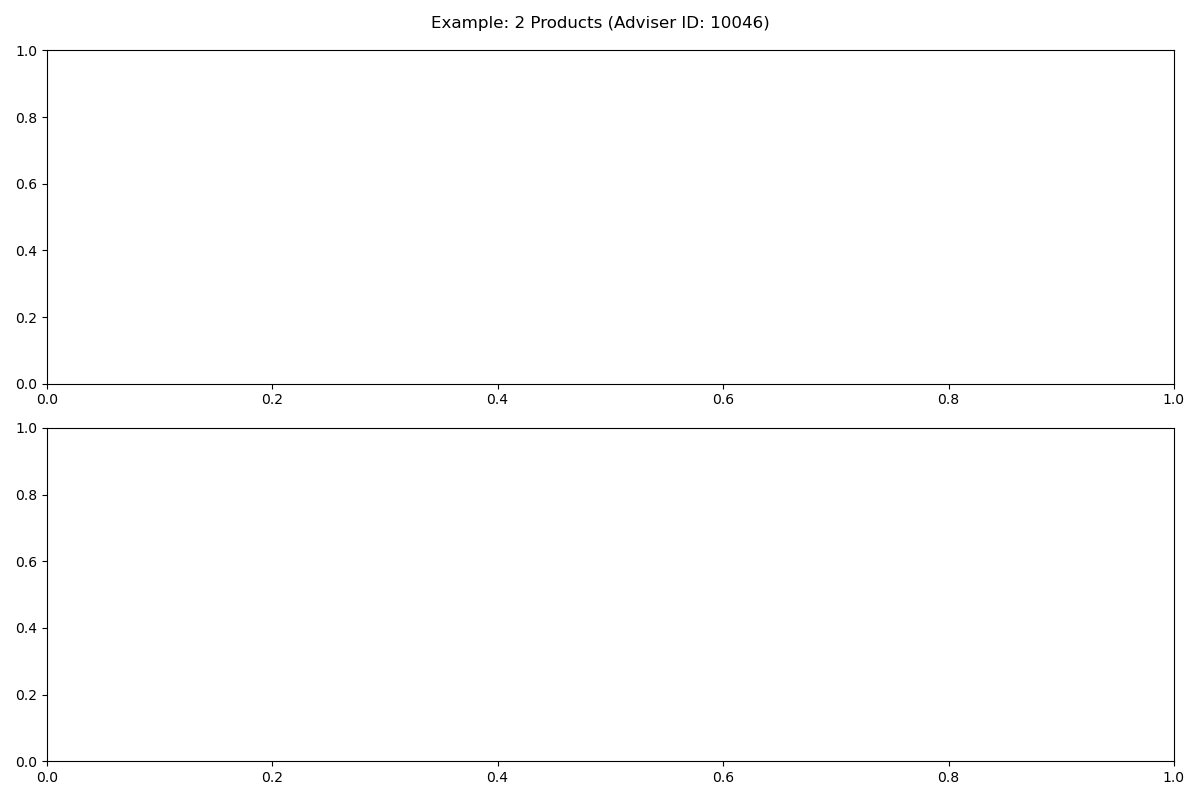
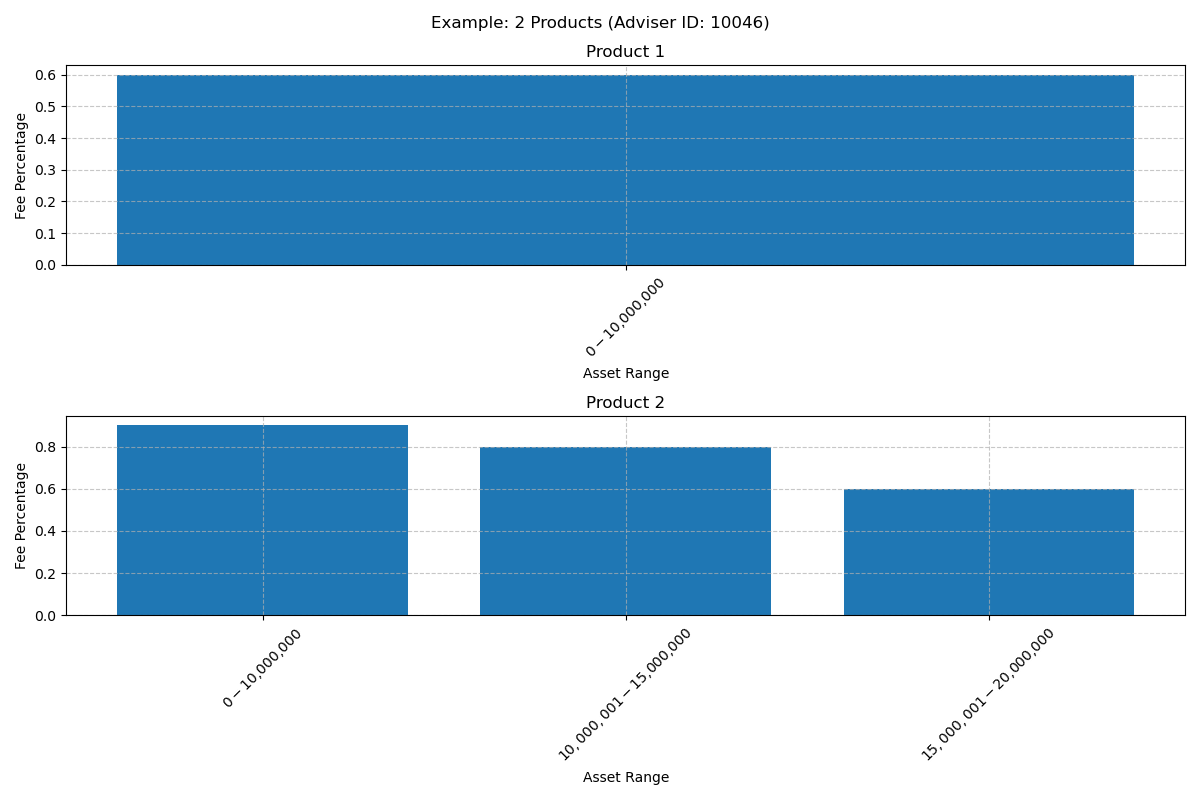
Fix multiple products example visualizations with actual fee tier data

diff --git a/generate_example_visualizations.py b/generate_example_visualizations.py
@@ -1,0 +1,104 @@
+import pandas as pd
+import numpy as np
+import matplotlib.pyplot as plt
+import os
+
+def main():
+    # Load the structured data
+    df = pd.read_csv('structured_fee_data.csv')
+    print(f"Loaded structured data with {df.shape[0]} rows and {df.shape[1]} columns")
+    
+    # Filter to advisers with multiple products
+    multi_df = df[df['product_count'] > 1]
+    print(f"Advisers with multiple products: {len(multi_df)}")
+    
+    # Create directory for examples
+    os.makedirs('multiple_products/examples', exist_ok=True)
+    
+    # Generate examples for different product counts
+    for product_count in range(2, 5):
+        # Find advisers with this product count
+        examples = multi_df[multi_df['product_count'] == product_count]
+        print(f"\nAdvisers with {product_count} products: {len(examples)}")
+        
+        if len(examples) == 0:
+            continue
+        
+        # Find an example with fee data for all products
+        for idx, row in examples.iterrows():
+            has_all_data = True
+            for product in range(product_count):
+                fee_col = f'product_{product}_tier_0_fee_pct'
+                if fee_col not in row.index or pd.isna(row[fee_col]):
+                    has_all_data = False
+                    break
+            
+            if has_all_data:
+                example = row
+                print(f"Found example with adviser ID: {example['adviser_id1']}")
+                
+                # Create figure with subplots
+                fig, axes = plt.subplots(product_count, 1, figsize=(12, 4 * product_count))
+                
+                # If there's only one product, axes will be a single axis, not an array
+                if product_count == 1:
+                    axes = [axes]
+                
+                # Plot each product
+                for product in range(product_count):
+                    # Get the fee tiers for this product
+                    tiers = []
+                    labels = []
+                    
+                    # Check each tier
+                    for tier in range(6):  # Check up to 6 tiers
+                        fee_col = f'product_{product}_tier_{tier}_fee_pct'
+                        lower_col = f'product_{product}_tier_{tier}_lower'
+                        upper_col = f'product_{product}_tier_{tier}_upper'
+                        
+                        if fee_col in example.index and lower_col in example.index and not pd.isna(example[fee_col]) and not pd.isna(example[lower_col]):
+                            fee = example[fee_col]
+                            lower = example[lower_col]
+                            upper = example[upper_col] if upper_col in example.index and not pd.isna(example[upper_col]) else np.inf
+                            
+                            tiers.append(fee)
+                            
+                            # Format the label
+                            if upper == np.inf:
+                                labels.append(f"${lower:,.0f}+")
+                            else:
+                                labels.append(f"${lower:,.0f}-${upper:,.0f}")
+                            
+                            print(f"  Product {product+1}, Tier {tier+1}: {labels[-1]} = {fee}%")
+                    
+                    # Plot the tiers
+                    if tiers:
+                        axes[product].bar(labels, tiers)
+                        axes[product].set_xlabel('Asset Range')
+                        axes[product].set_ylabel('Fee Percentage')
+                        axes[product].set_title(f'Product {product+1}')
+                        axes[product].tick_params(axis='x', rotation=45)
+                        axes[product].grid(True, linestyle='--', alpha=0.7)
+                    else:
+                        print(f"  WARNING: No valid tiers found for Product {product+1}")
+                        axes[product].text(0.5, 0.5, 'No fee tier data available', 
+                                         horizontalalignment='center',
+                                         verticalalignment='center',
+                                         transform=axes[product].transAxes,
+                                         fontsize=14)
+                        axes[product].set_title(f'Product {product+1} - No Data')
+                        axes[product].axis('off')
+                
+                plt.suptitle(f'Example: {product_count} Products (Adviser ID: {example["adviser_id1"]})')
+                plt.tight_layout()
+                plt.savefig(f'multiple_products/examples/{product_count}_products.png')
+                plt.close()
+                print(f"  Saved visualization to multiple_products/examples/{product_count}_products.png")
+                
+                # We found an example, so break the loop
+                break
+    
+    print("\nExample visualizations complete!")
+
+if __name__ == "__main__":
+    main()
